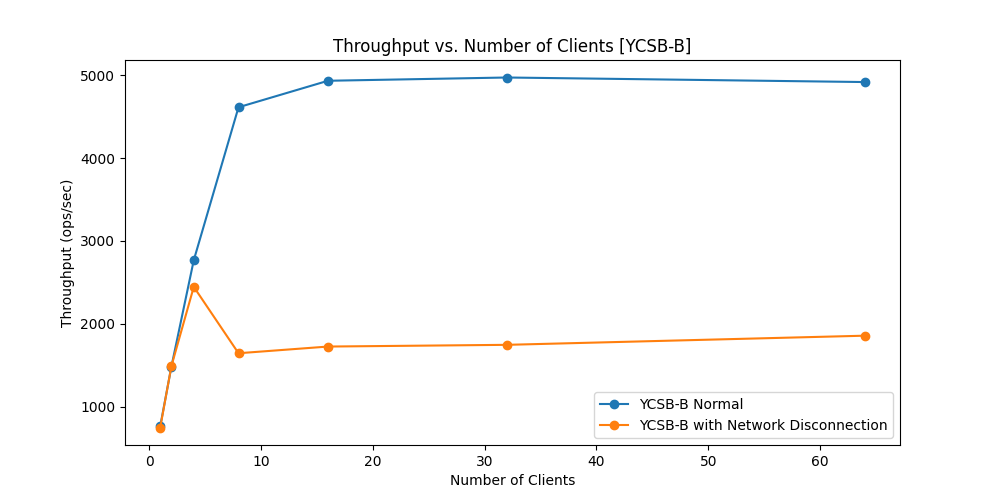
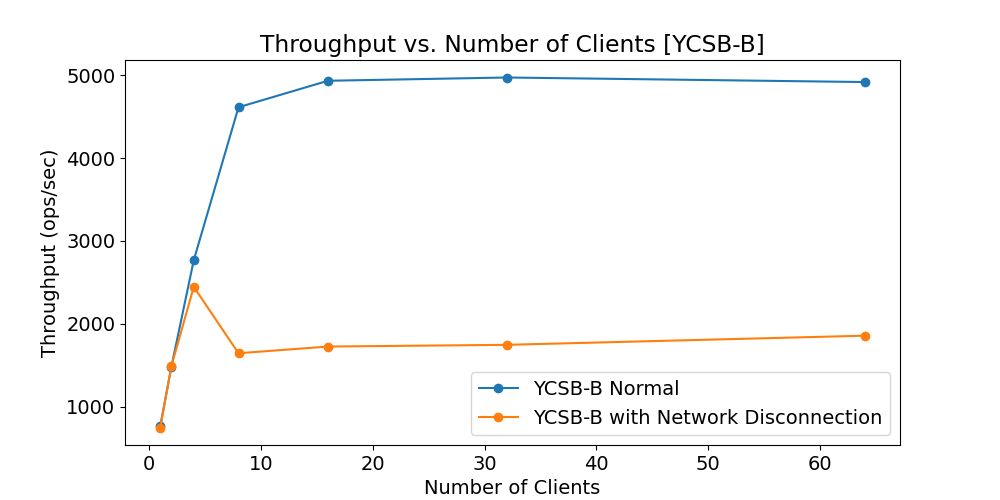
f

diff --git a/replica/replica.go b/replica/replica.go
@@ -2,7 +2,7 @@ package main
 
 import (
 	"container/heap"
-	//"fmt"
+	"fmt"
 	"log"
 	"net"
 	"os"
@@ -14,7 +14,7 @@ import (
 
 var replicaIPs []string
 var ownIP string
-
+var nullCnt int = 0
 var StateMachine map[string]int = make(map[string]int) 
 
 
@@ -86,7 +86,7 @@ func main() {
 			value := ConsensusTerminationMapList[seq][0]
 			resolveTermination(TerminationValue{isNull: value.Value==0, CommandData: value.CommandData, phase: 0, seq: seq}, CommandData{Op: "", Timestamp: time.Now(), ClientAddr: "", ReplicaAddr: ""})
 
-			//c.Println("SM in seq", seq, ":", StateMachine)
+			c.Println("SM in seq", seq, ":", StateMachine)
 			seq++
 			continue
 
@@ -114,7 +114,7 @@ func main() {
 			continue
 		}
 
-		//fmt.Println("proposal: ", *commandPointer)
+		fmt.Println("proposal: ", *commandPointer)
 		PQMutex.Unlock()
 
 		
@@ -126,9 +126,9 @@ func main() {
 		if terminationFlag == 1 {
 
 			value := TerminationValue{isNull: stateStruct.Value == 0, CommandData: stateStruct.CommandData, phase: 0, seq: seq}
-			//color.Green("reached consensus: ", value, "\n")
+			color.Green("reached consensus: ", value, "\n")
 			resolveTermination(value, *commandPointer)
-			//c.Println("SM in seq", seq, ":", StateMachine)
+			c.Println("SM in seq", seq, ":", StateMachine)
 			seq++
 			phaseSum += 0
 			// fmt.Println("null cnt:", nullCnt)
@@ -141,12 +141,12 @@ func main() {
 		resolveTermination(consensusValue, *commandPointer)
 
 
-		//c.Println("SM in seq", seq, ":", StateMachine)
+		c.Println("SM in seq", seq, ":", StateMachine)
 		seq++
 		phaseSum += phases + 1
-		// fmt.Println("null cnt:", nullCnt)
-		// fmt.Println("non-null percentage: ", (float64(seq-nullCnt)/float64(seq))*100)
-		//fmt.Println("phase average: ", float32(phaseSum)/float32(seq))
+		 fmt.Println("null cnt:", nullCnt)
+		 fmt.Println("non-null percentage: ", (float64(seq-nullCnt)/float64(seq))*100)
+		fmt.Println("phase average: ", float32(phaseSum)/float32(seq))
 
 	}
 }
@@ -155,41 +155,41 @@ func weakMVC(stateStruct StateValueData, seq int) (TerminationValue, int){
 
 	var phase int = 0
 
-	//c := color.New(color.FgGreen)
+	c := color.New(color.FgGreen)
 
 	//Round 1
-	//fmt.Println("State struct: ", stateStruct)
+	fmt.Println("State struct: ", stateStruct)
 	var state StateValueData = StateValueData{Value: stateStruct.Value, Seq: seq, Phase: phase, CommandData: stateStruct.CommandData}
 	terminationFlag, voteValue := roundOne(state, seq, phase)
 	if terminationFlag == 1 {
 		if voteValue.Value == 0 {
 			terminationValue := TerminationValue{isNull: true, CommandData: voteValue.CommandData, phase: phase, seq: seq}
 			notifyTermination(setConnectionWithOtherReplicas(replicaIPs),seq, terminationValue)
-		//	c.Println("reached consensus: ", terminationValue)
+			c.Println("reached consensus: ", terminationValue)
 			return terminationValue, phase
 		} else {
 			terminationValue := TerminationValue{isNull: false, CommandData: voteValue.CommandData, phase: phase, seq: seq}
 			notifyTermination(setConnectionWithOtherReplicas(replicaIPs),seq, terminationValue)
-			//c.Println("reached consensus: ", terminationValue)
+			c.Println("reached consensus: ", terminationValue)
 			return terminationValue, phase 
 		}
 	}
 
 	//Round 2
-	//fmt.Println("voteValue: ", voteValue)
+	fmt.Println("voteValue: ", voteValue)
 	var vote VoteValueData = VoteValueData{Value: voteValue.Value, Seq: seq, Phase: phase, CommandData: voteValue.CommandData}
 	terminationFlag, returnStruct := roundTwo(vote, seq, phase)
-	//fmt.Println("returnStruct: ", returnStruct)
+	fmt.Println("returnStruct: ", returnStruct)
 	if terminationFlag == 1 {
 		if returnStruct.ConsensusValue == 0 {
 			terminationValue := TerminationValue{isNull: true, CommandData: returnStruct.CommandData, phase: phase, seq: seq}
 			notifyTermination(setConnectionWithOtherReplicas(replicaIPs),seq, terminationValue)
-			//c.Println("eached consensus: ", terminationValue)
+			c.Println("eached consensus: ", terminationValue)
 			return terminationValue, phase
 		} else {
 			terminationValue := TerminationValue{isNull: false, CommandData: returnStruct.CommandData, phase: phase, seq: seq}
 			notifyTermination(setConnectionWithOtherReplicas(replicaIPs),seq, terminationValue)
-			//c.Println("reached consensus: ", terminationValue)
+			c.Println("reached consensus: ", terminationValue)
 			return terminationValue, phase
 		}
 	}
@@ -204,29 +204,29 @@ func weakMVC(stateStruct StateValueData, seq int) (TerminationValue, int){
 			if voteValue.Value == 0 {
 				terminationValue := TerminationValue{isNull: true, CommandData: voteValue.CommandData, phase: phase, seq: seq}
 				notifyTermination(setConnectionWithOtherReplicas(replicaIPs),seq, terminationValue)
-				//c.Println("reached consensus: ", terminationValue)
+				c.Println("reached consensus: ", terminationValue)
 				return terminationValue, phase
 			} else {
 				terminationValue := TerminationValue{isNull: false, CommandData: voteValue.CommandData, phase: phase, seq: seq}
 				notifyTermination(setConnectionWithOtherReplicas(replicaIPs),seq, terminationValue)
-				//c.Println("reached consensus: ", terminationValue)
+				c.Println("reached consensus: ", terminationValue)
 				return terminationValue, phase
 			}
 		}
-		//fmt.Println("voteValue: ", voteValue)
+		fmt.Println("voteValue: ", voteValue)
 		var vote VoteValueData = VoteValueData{Value: voteValue.Value, Seq: seq, Phase: phase, CommandData: voteValue.CommandData}
 		terminationFlag, returnStruct = roundTwo(vote, seq, phase)
-		//fmt.Println("returnStruct: ", returnStruct)
+		fmt.Println("returnStruct: ", returnStruct)
 		if terminationFlag == 1 {
 			if returnStruct.ConsensusValue == 0 {
 				terminationValue := TerminationValue{isNull: true, CommandData: returnStruct.CommandData, phase: phase, seq: seq}
 				notifyTermination(setConnectionWithOtherReplicas(replicaIPs),seq, terminationValue)
-				//c.Println("reached consensus: ", terminationValue)
+				c.Println("reached consensus: ", terminationValue)
 				return terminationValue, phase
 			} else {
 				terminationValue := TerminationValue{isNull: false, CommandData: returnStruct.CommandData, phase: phase, seq: seq}
 				notifyTermination(setConnectionWithOtherReplicas(replicaIPs),seq, terminationValue)
-				//c.Println("reached consensus: ", terminationValue)
+				c.Println("reached consensus: ", terminationValue)
 				return terminationValue, phase
 			}
 		}
@@ -242,10 +242,10 @@ func notifyTermination(conns []net.Conn,  seq int, termination TerminationValue)
 		go func(conn net.Conn) {
 			if termination.isNull{
 				sendData(conn, ConsensusTermination{Seq: seq, Value: 0, CommandData: termination.CommandData})
-				//fmt.Println("sending termination to: ", conn.RemoteAddr().String())
+				fmt.Println("sending termination to: ", conn.RemoteAddr().String())
 			}else{
 				sendData(conn, ConsensusTermination{Seq: seq, Value: 1, CommandData: termination.CommandData})
-				//fmt.Println("sending termination to: ", conn.RemoteAddr().String())
+				fmt.Println("sending termination to: ", conn.RemoteAddr().String())
 			}
 		}(conn)
 	}
@@ -277,8 +277,8 @@ func resolveTermination(termination TerminationValue, ownProposal CommandData){
 
 	IP := strings.Split(termination.CommandData.ReplicaAddr, ":")[0]
 	if ownIP == IP  {
-		//c:= color.New(color.FgHiMagenta)
-		//c.Println("sending response to client: ", termination.CommandData.ClientAddr)
+		c:= color.New(color.FgHiMagenta)
+		c.Println("sending response to client: ", termination.CommandData.ClientAddr)
 		responceChannelMapMutex.Lock()
 		responseChannelMap[termination.CommandData.ClientAddr] <- ResponseToClient{Value: 0, ClientAddr: termination.CommandData.ClientAddr}
 		responceChannelMapMutex.Unlock()

diff --git a/plot/plot.py b/plot/plot.py
@@ -1,5 +1,8 @@
 import matplotlib.pyplot as plt
 
+
+fontSize = 14
+
 # Data points for YCSB-A
 x_a = [1, 2, 4, 8, 16, 32, 64]
 y_a= [259.17,407.36,461.94,457.64,461.21,480.75,483.78]
@@ -19,7 +22,8 @@ plt.plot(x_a_d, y_a_d, marker='o', label='YCSB-A with Network Disconnection')
 plt.title('Throughput vs. Number of Clients [YCSB-A]')
 plt.xlabel('Number of Clients')
 plt.ylabel('Throughput (ops/sec)')
-plt.legend()
+plt.legend(fontsize=fontSize)
+plt.rcParams["font.size"] = 14
 plt.savefig('/home/Jamiroq/Documents/GitHub/myRabia/plot/throughput_plot-A.png')
 plt.close()
 
@@ -43,7 +47,8 @@ plt.plot(x_b_d, y_b_d, marker='o', label='YCSB-B with Network Disconnection')
 plt.title('Throughput vs. Number of Clients [YCSB-B]')
 plt.xlabel('Number of Clients')
 plt.ylabel('Throughput (ops/sec)')
-plt.legend()
+plt.legend(fontsize=fontSize)
+plt.rcParams["font.size"] = fontSize
 plt.savefig('/home/Jamiroq/Documents/GitHub/myRabia/plot/throughput_plot-B.png')
 plt.close()
 
@@ -62,7 +67,8 @@ plt.plot(x_c_d, y_c_d, marker='o', label='YCSB-C with Network Disconnection')
 plt.title('Throughput vs. Number of Clients [YCSB-C]')
 plt.xlabel('Number of Clients')
 plt.ylabel('Throughput (ops/sec)')
-plt.legend()
+plt.legend(fontsize=fontSize)
+plt.rcParams["font.size"] = fontSize
 plt.savefig('/home/Jamiroq/Documents/GitHub/myRabia/plot/throughput_plot-C.png')
 plt.close()
 
@@ -92,7 +98,8 @@ plt.plot(x_c_geo, y_c_geo, marker='o', label='YCSB-C when Geo-Distributed')
 plt.title('Throughput vs. Number of Clients [YCSB-A,B,C]')
 plt.xlabel('Number of Clients')
 plt.ylabel('Throughput (ops/sec)')
-plt.legend()
+plt.legend(fontsize=fontSize)
+plt.rcParams["font.size"] = fontSize
 plt.savefig('/home/Jamiroq/Documents/GitHub/myRabia/plot/throughput_plot-_geo.png')
 plt.close()
 
@@ -108,7 +115,8 @@ plt.plot(x_b_geo, y_b_geo, marker='o', label='YCSB-B when Geo-Distributed')
 plt.title('Throughput vs. Number of Clients [YCSB-B]')
 plt.xlabel('Number of Clients')
 plt.ylabel('Throughput (ops/sec)')
-plt.legend()
+plt.legend(fontsize=fontSize)
+plt.rcParams["font.size"] = fontSize
 plt.savefig('/home/Jamiroq/Documents/GitHub/myRabia/plot/throughput_plot-B_geo.png')
 plt.close()
 
@@ -125,11 +133,28 @@ plt.plot(x_c_geo, y_c_geo, marker='o', label='YCSB-C when Geo-Distributed')
 plt.title('Throughput vs. Number of Clients [YCSB-C]')
 plt.xlabel('Number of Clients')
 plt.ylabel('Throughput (ops/sec)')
-plt.legend()
+plt.legend(fontsize=fontSize)
+plt.rcParams["font.size"] = fontSize
 plt.savefig('/home/Jamiroq/Documents/GitHub/myRabia/plot/throughput_plot-C_geo.png')
 plt.close()
 
 
+
+
+x_o = [1, 2, 3, 4,5,6,7,8]
+y_o = [61695,112742,124189,145647,117635,126337, 120289, 109782]
+
+
+plt.figure(figsize=(10, 5))
+#plt.plot(x_c, y_c, marker='o', label='YCSB-C Normal')
+plt.plot(x_o, y_o, marker='o', label='YCSB-C when Geo-Distributed')
+plt.title('Throughput vs. Number of Clients [YCSB-C]')
+plt.xlabel('Number of Clients')
+plt.ylabel('Throughput (ops/sec)')
+plt.legend(fontsize=fontSize)
+plt.rcParams["font.size"] = fontSize
+plt.savefig('/home/Jamiroq/Documents/GitHub/myRabia/plot/throughput_plo_geo.png')
+plt.close()
 
 
 

diff --git a/plot/plotlatency.py b/plot/plotlatency.py
@@ -13,7 +13,7 @@ plt.plot(x_a, Atotal_time, marker='o', label='latency')
 for i, txt in enumerate(x_a):
     plt.annotate(txt, (x_a[i], Atotal_time[i]), xytext=(0, 5), textcoords='offset points', ha='center')
 plt.xlabel('クライアントの数')
-plt.ylabel('YCSB-Aにおける\n一命令あたりのレイテンシー(Millsec/命令)')
+plt.ylabel('レイテンシー(Millsec)')
 plt.legend()
 plt.savefig('/home/Jamiroq/Documents/GitHub/myRabia/plot/latencyA/latency_plot-A.png')
 plt.close()
@@ -30,7 +30,7 @@ plt.plot(x_b, Btotal_time, marker='o', label='latency')
 for i, txt in enumerate(x_b):
     plt.annotate(txt, (x_b[i], Btotal_time[i]), xytext=(0, 5), textcoords='offset points', ha='center')
 plt.xlabel('クライアントの数')
-plt.ylabel('YCSB-Bにおける\n一命令あたりのレイテンシー(Millsec/命令)')
+plt.ylabel('レイテンシー(Millsec)')
 plt.legend()
 plt.savefig('/home/Jamiroq/Documents/GitHub/myRabia/plot/latencyB/latency_plot-B.png')
 plt.close()
@@ -46,7 +46,7 @@ plt.plot(x_c, Cread_time, marker='o', label='latency')
 for i, txt in enumerate(x_c):
     plt.annotate(txt, (x_c[i], Cread_time[i]), xytext=(0, 5), textcoords='offset points', ha='center')
 plt.xlabel('クライアントの数')
-plt.ylabel('YCSB-Cにおける\n一命令あたりのレイテンシー(Millsec/命令)')
+plt.ylabel('レイテンシー(Millsec)')
 plt.legend()
 plt.savefig('/home/Jamiroq/Documents/GitHub/myRabia/plot/latencyC/latency_plot-C.png')
 plt.close()
